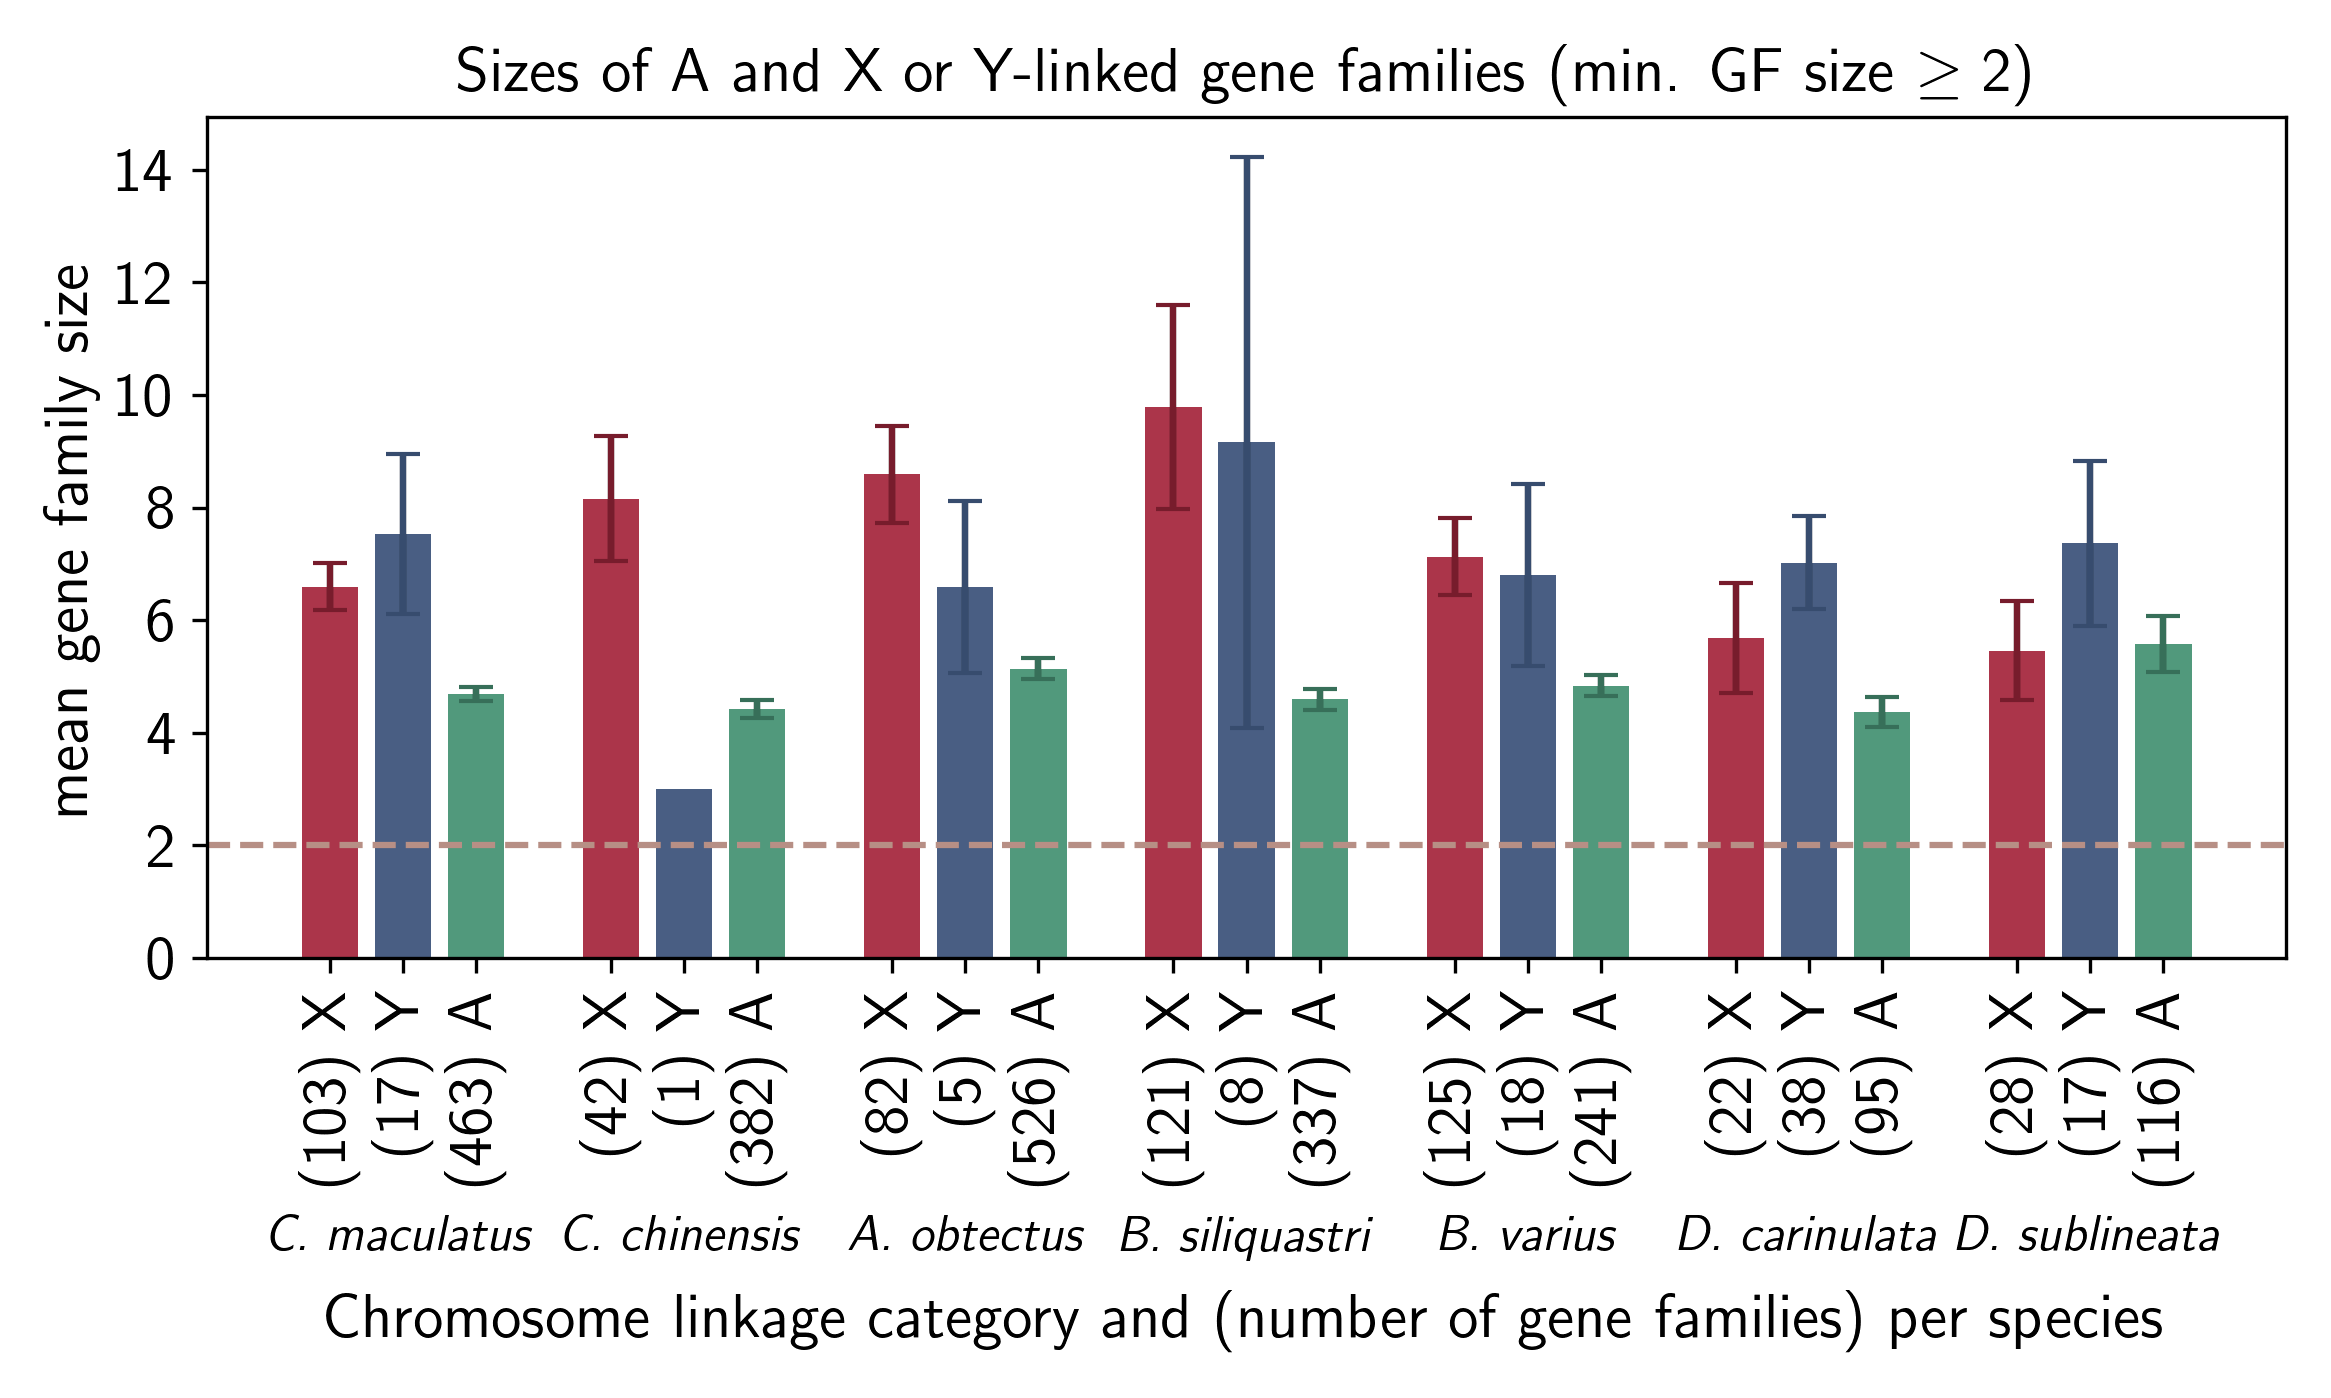
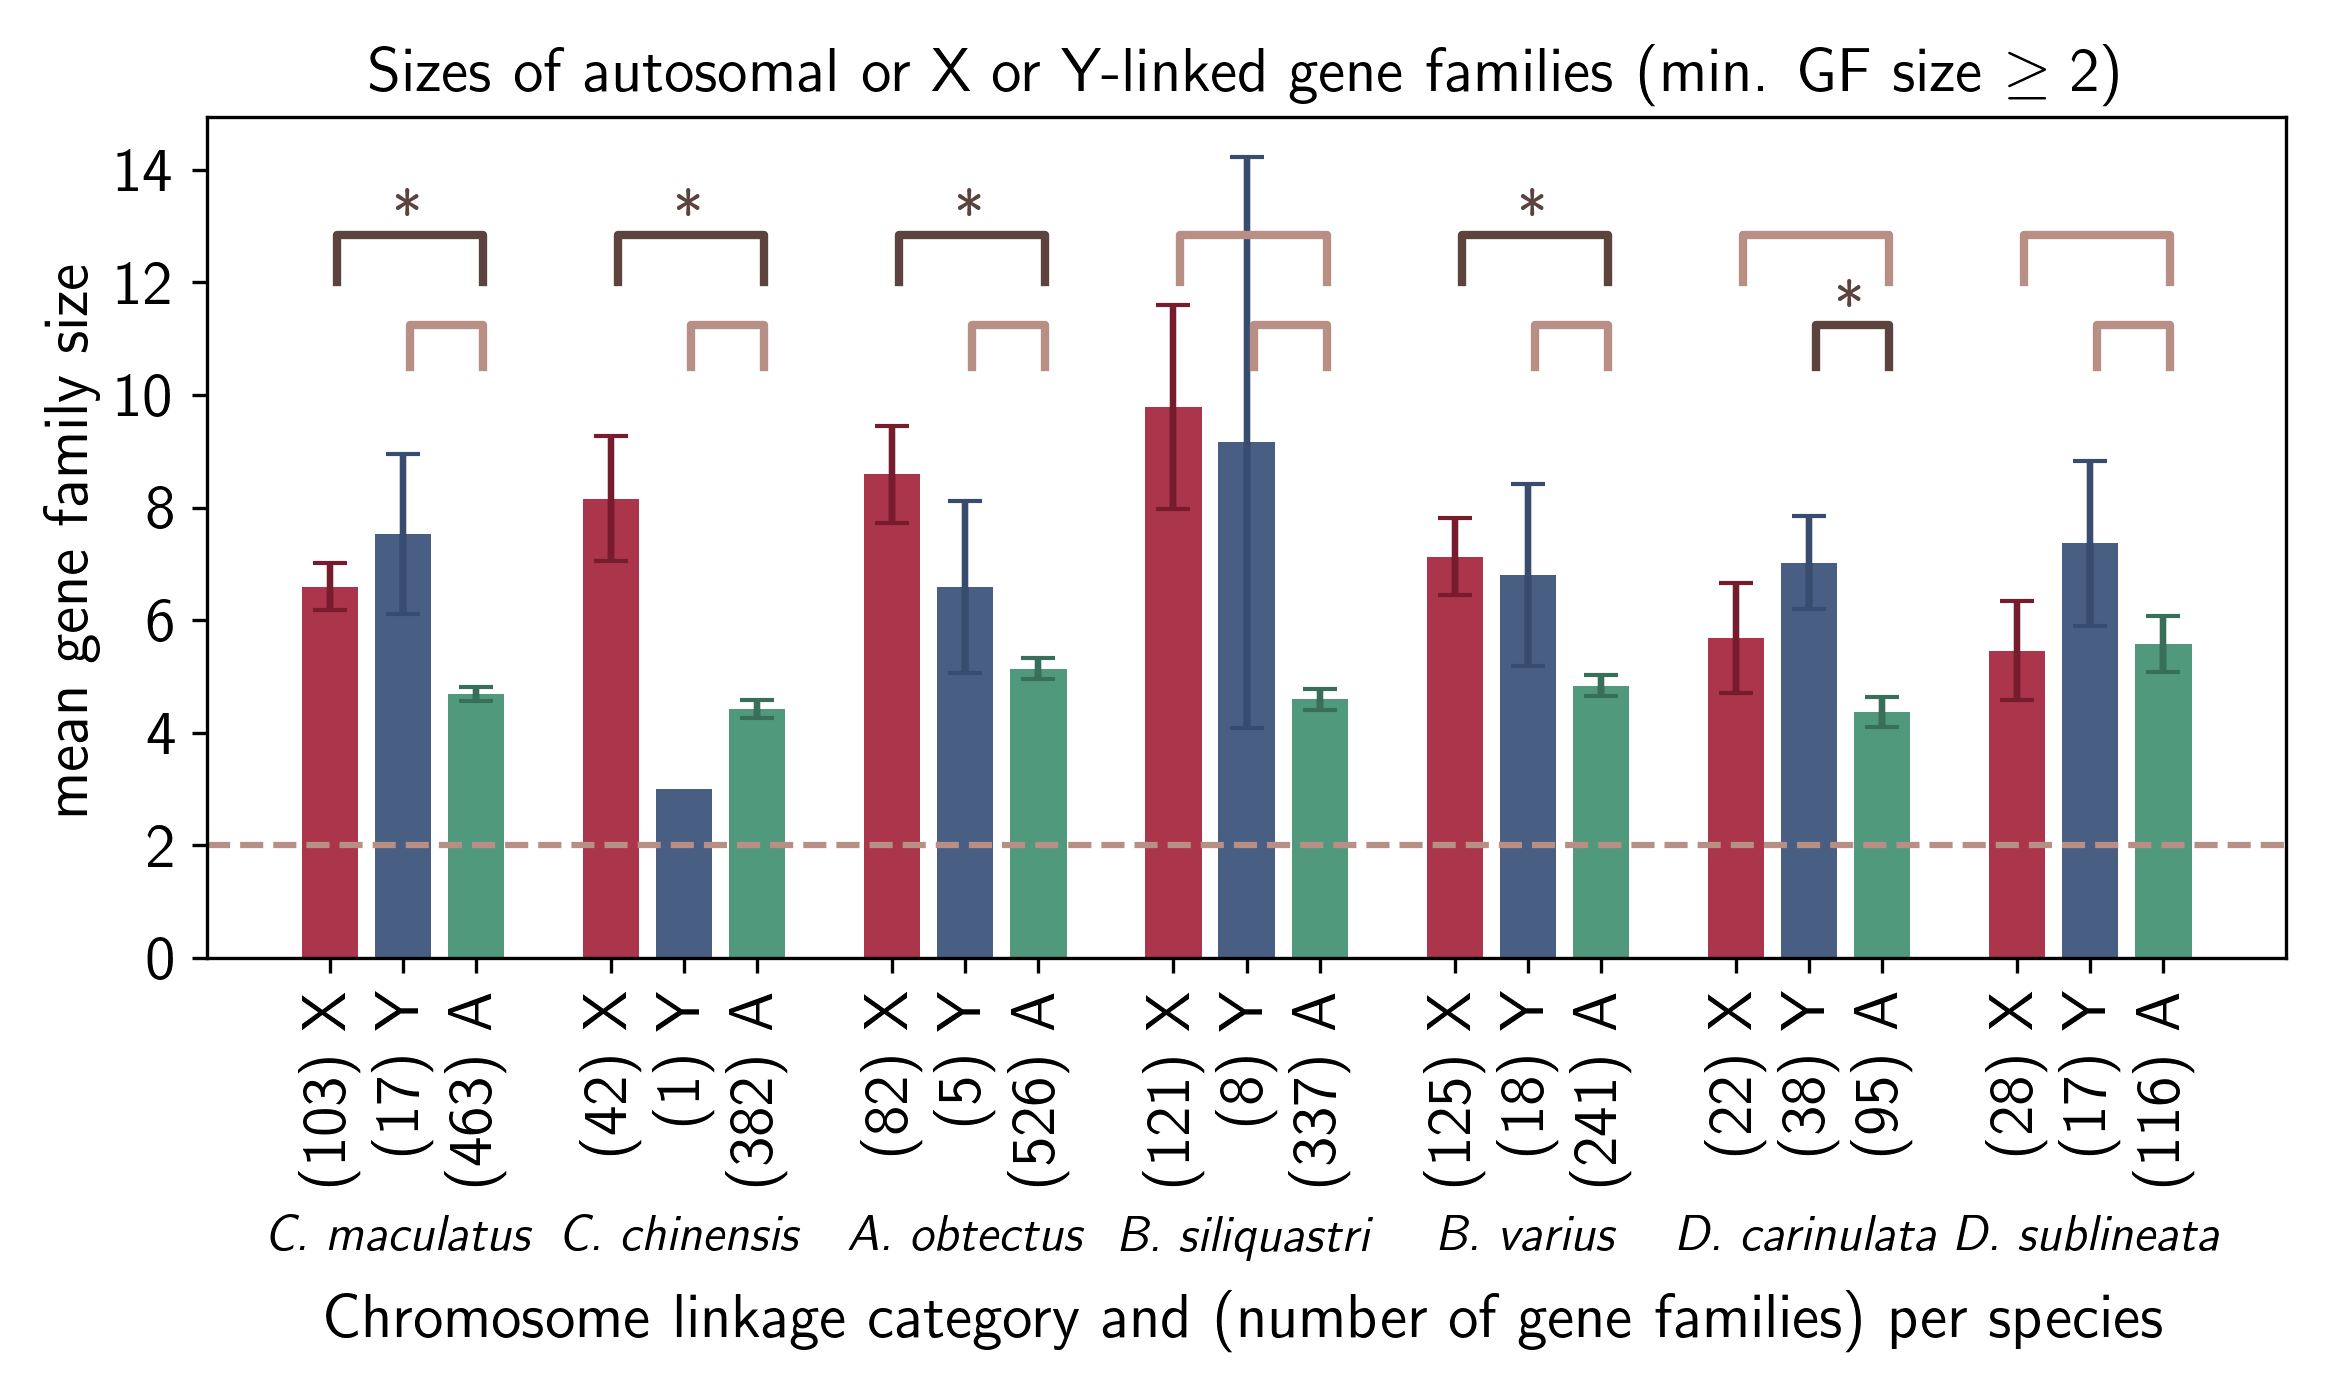
upd plots with stats

diff --git a/src/GF_sizes.py b/src/GF_sizes.py
@@ -220,7 +220,7 @@ def get_sexchr_gf_size(sexchr_dict):
     return size
 
 
-def check_sex_linked_GF_size(hog_sexchr_dict, species_list, chr_string: Literal["X", "Y", "XY"], excl_chr:Literal["X", "Y",""] = "", outfile="boxplot.png", min_OG_size = 2, min_GF_size = 0, ymax_plot = 0, plot_type:Literal["medians_box", "means_bar", "no_plot"]="means_bar", correction_factors={}):
+def check_sex_linked_GF_size(hog_sexchr_dict, species_list, chr_string: Literal["X", "Y", "XY"], excl_chr:Literal["X", "Y",""] = "", outfile="boxplot.png", min_OG_size = 2, min_GF_size = 0, ymax_plot = 0, plot_type:Literal["medians_box", "means_bar", "no_plot"]="means_bar", correction_factors={}, mean_diff_test=False):
     """
     Take sexchr size dict and make list of orthogroup sizes that are X-linked/Y-linked 
     if excl_chr is specified, then all orthogroups that have members on this chromosome are excluded from any analysis
@@ -438,7 +438,7 @@ def check_sex_linked_GF_size(hog_sexchr_dict, species_list, chr_string: Literal[
                         tick_pos[i] =1+ i//3 
                     if i%3 == 2:
                         tick_pos[i] =1+ i//3 +pos_adjust
-                    print(f"{i} : {tick_pos[i]}")
+                    # print(f"{i} : {tick_pos[i]}")
             else:
                 box_width = 0.7
                 pos_adjust=box_width*0.125
@@ -482,6 +482,59 @@ def check_sex_linked_GF_size(hog_sexchr_dict, species_list, chr_string: Literal[
                 ax2.spines['bottom'].set_visible(False)
                 ax2.tick_params(axis='x', labelsize=fs*fs_factor)
 
+            ### plot comparisons between X and Y 
+            if mean_diff_test:
+                import scipy.stats as sts
+                def add_significance_bar_log(ax, x,y,tick_pos,data, y_raise=0, factor=1.07, color='black', lw=lw, fs=fs):
+                    """
+                    This function was modified from one created by claude code
+                    """
+                    x1=tick_pos[x]+0.025
+                    x2=tick_pos[y]+0.025
+                    data1=data[x]
+                    data2=data[y]
+
+                    # run the test
+                    stat, p = sts.mannwhitneyu(data1, data2, alternative='two-sided')
+
+                    if y_raise==0:
+                        y_ = max([mean(data1), mean(data2)]) +2
+                    else:
+                        y_=y_raise
+
+                    # convert p-value to stars
+                    text = 'ns'
+                    color="#B78F85" #light grey
+                    tick_top = y_ * factor
+                    if p < 0.05:
+                        text = '*'
+                        color="#5C433D"# darker grey
+                        ax.text((x1+x2)/2, tick_top*1.01, text, ha='center', va='bottom', color=color, fontsize=fs)
+                        print(f"\t* Mann-Whitney {bar_labels_for_stats[x]}-{bar_labels_for_stats[y]} : \t U = {stat:.0f}, p-value = {p:.4f}")
+                    else:
+                        print(f"\t  Mann-Whitney {bar_labels_for_stats[x]}-{bar_labels_for_stats[y]} : \t U = {stat:.0f}, p-value = {p:.4f}")
+                        # ax.text((x1+x2)/2, tick_top*1.012, text, ha='center', va='bottom', color=color, fontsize=fs)
+                    if y>0:
+                        bar_raise = 0
+                    else:
+                        bar_raise = 0
+                    ax.plot([x1, x1, x2, x2], [y_+bar_raise, tick_top, tick_top, y_+bar_raise], lw=lw, color=color)
+
+                    return y_
+
+                bar_labels_for_stats = tick_labels
+                ymax_,ymin_ = ax.get_ylim()
+                nums = list(range(21))  # 0..20
+                s = 0
+                for i in range(0, len(nums), 3):
+                    species = species_list_[s]
+                    print(f" - {species}")
+                    x, y, a = nums[i:i+3]
+                    # y_raise = add_significance_bar_log(ax=ax,x=x,y=y, tick_pos=tick_pos, data=lists, lw=lw, fs=fs,y_raise=0)
+                    y_raise = add_significance_bar_log(ax=ax,x=y,y=a, tick_pos=tick_pos, data=lists, lw=lw, fs=fs,y_raise=10.5)
+                    y_raise = add_significance_bar_log(ax=ax,x=x,y=a, tick_pos=tick_pos, data=lists, lw=lw, fs=fs,y_raise=12)
+                    s+=1
+
         ax.set_xlabel("Chromosome linkage category and (number of gene families) per species", fontsize = fs, labelpad = 25)
         ax.tick_params(axis='x', labelsize=fs) 
         ax.set_xticks(ticks = tick_pos, labels = tick_labels, fontsize=fs, rotation=90)
@@ -490,7 +543,7 @@ def check_sex_linked_GF_size(hog_sexchr_dict, species_list, chr_string: Literal[
             chr_string_ = "X or Y"
         else:
             chr_string_ = chr_string
-        title = f"Sizes of A and {chr_string_}-linked gene families"
+        title = f"Sizes of autosomal or {chr_string_}-linked gene families"
         if min_GF_size >0:
             title = f"{title} " + r"(min. GF size $\geq 2$)"
         ax.set_title(title, fontsize=fs)
@@ -756,12 +809,23 @@ if __name__ == "__main__":
             else:
                 filename = f"{data_dir}/GF_sizes_{chr_}-linked_vs_A_comparison.png"
 
-            for mingf in [0,2]:
+            mdt=False
+            for mingf in [-1,0,2]:
                 # gene families need to have at least two members in the species or not
+                print(f"\n ----------------------- min GF size: {mingf} -----------------------")
                 if mingf>0:
+                    mdt=True
                     filename = filename.replace(".png", f"_gfsize_min{mingf}.png")
+                    plot_type="means_bar"
+                elif mingf<0:
+                    plot_type="no_plot"
                 print(f"\n\n>>>>> {chr_} <<<<< ")
-                check_sex_linked_GF_size(hog_sexchr_dict=mini_hog_sexchr_dict, species_list=species_order, chr_string=chr_, min_GF_size = mingf, outfile=filename, plot_type="means_bar", correction_factors = gf_size_correction_factors)
+                vals = check_sex_linked_GF_size(hog_sexchr_dict=mini_hog_sexchr_dict, species_list=species_order, chr_string=chr_, min_GF_size = mingf, outfile=filename, plot_type=plot_type, correction_factors = gf_size_correction_factors, mean_diff_test=mdt)
+
+                if vals!=None:
+                    chr_sizes,O_sizes=vals
+                    print(chr_sizes.keys())
+                    # break
 
     if False:
         mini_hog_sexchr_dict = parse_orthogroups_with_gff_class(filepath=orthogroups_file, annotations_dict=annot_dict, unassigned_genes_path=unassigned_genes_path, sex_chr_dict=sex_chromosome_contigs, miniprot_paths_dict=miniprot_dict)
